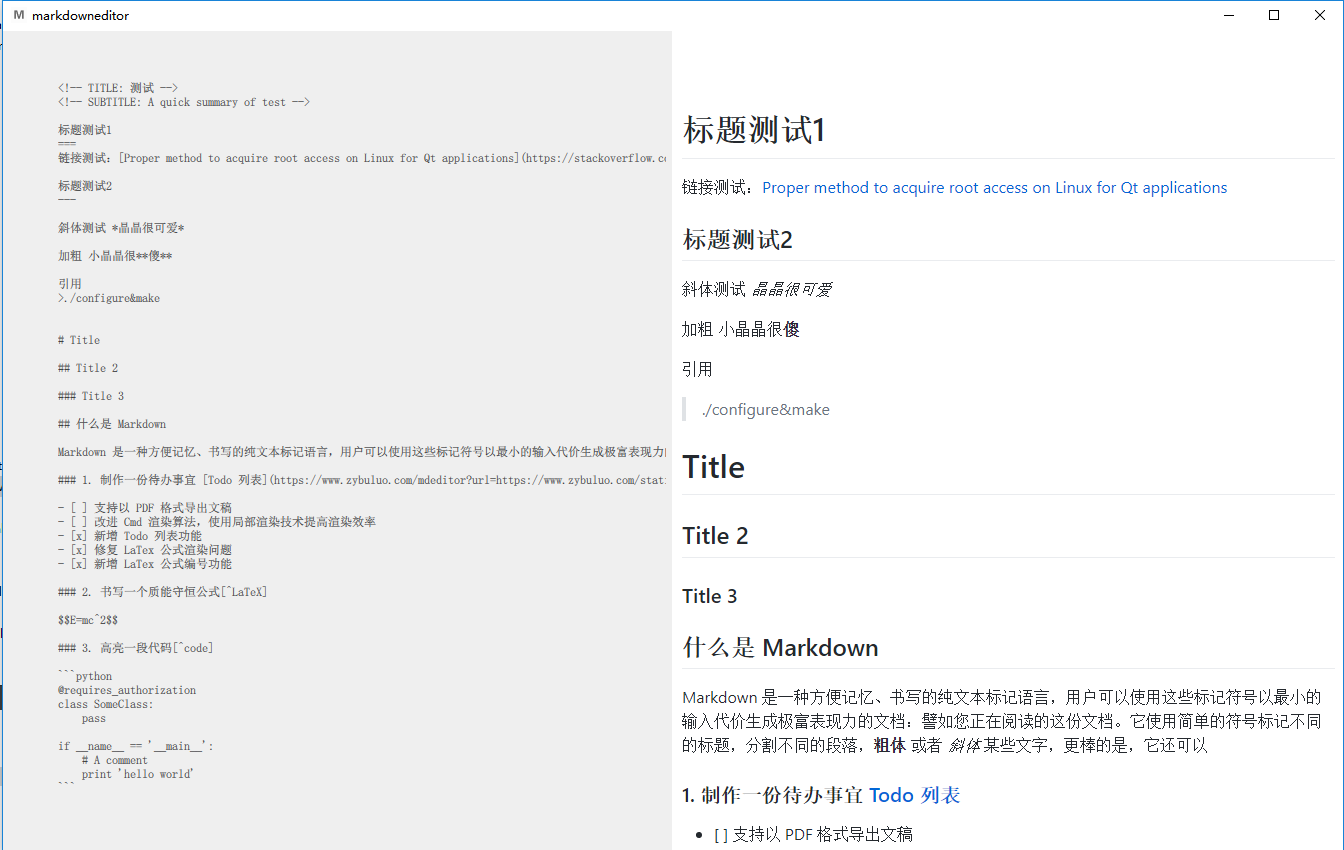
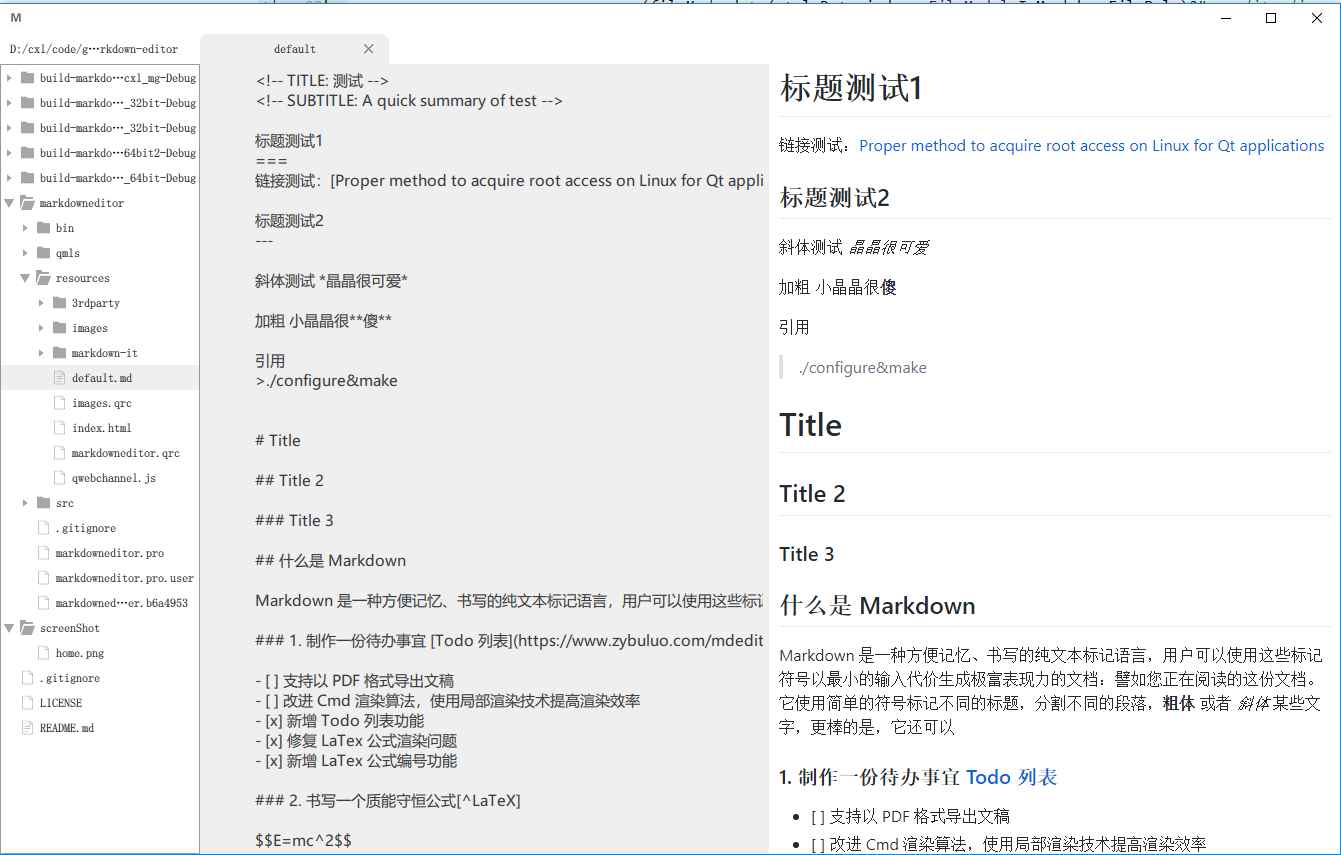
update file treeview

diff --git a/markdowneditor/qmls/custom/SubTree.qml b/markdowneditor/qmls/custom/SubTree.qml
@@ -2,6 +2,7 @@ import QtQuick 2.4
 import QtQuick.Controls 1.4
 import QtQml.Models 2.2
 import QtQuick.Dialogs 1.0
+import QtQuick.Controls.Styles 1.4
 
 import cxl.normal 1.0
 
@@ -71,10 +72,54 @@ Item {
             role: "fileName"
         }
 
+        style: TreeViewStyle {
+            branchDelegate: Image {
+                width: 14
+                height: width
+                source:styleData.isExpanded ? "qrc:/item/images/svg/triangle_down.svg" : "qrc:/item/images/svg/triangle_right.svg"
+            }
+
+            itemDelegate: Item {
+                Image {
+                    id: doc_type_image
+                    anchors.left: parent.left
+                    anchors.leftMargin: 3
+                    anchors.verticalCenter: parent.verticalCenter
+                    width: 15
+                    height: width
+                    source: styleData.hasChildren?
+                                (styleData.isExpanded?"qrc:/item/images/svg/dir_open.svg":"qrc:/item/images/svg/dir.svg"):
+                                (fileMode.data(styleData.index, FileModel.IsMarkdownFileRole)?"qrc:/item/images/svg/doc.svg":
+                                                                                               "qrc:/item/images/svg/doc_null.svg")
+                }
+
+                Text {
+                    anchors.left: doc_type_image.right
+                    anchors.leftMargin: 5
+                    anchors.verticalCenter: parent.verticalCenter
+                    anchors.right: parent.right
+                    elide: Text.ElideMiddle
+                    text: styleData.value
+                }
+            }
+
+            rowDelegate:Rectangle{
+                height: 25
+                color: styleData.selected?"#efefef":"#ffffff"
+            }
+        }
+
         onDoubleClicked: {
             if(!fileMode.data(index, FileModel.IsDirRole)){
                 selectTitle = fileMode.data(index, FileModel.BaseNameStringRole)
                 pathSelected(fileMode.data(index, FileModel.UrlStringRole))
+            }else{
+                if(view.isExpanded(index)){
+                    view.collapse(index)
+                }else{
+                    view.expand(index)
+                }
+
             }
         }
     }

diff --git a/markdowneditor/src/filemodel.h b/markdowneditor/src/filemodel.h
@@ -30,7 +30,8 @@ public:
         UrlStringRole = Qt::UserRole + 7,
         DirStringRole,
         BaseNameStringRole,
-        IsDirRole
+        IsDirRole,
+        IsMarkdownFileRole
     };
 
     Q_ENUM(Roles)
@@ -48,6 +49,7 @@ public:
          QHash<int, QByteArray> result = QFileSystemModel::roleNames();
          result.insert(SizeRole, QByteArrayLiteral("size"));
          result.insert(LastModifiedRole, QByteArrayLiteral("lastModified"));
+         result.insert(IsMarkdownFileRole, QByteArrayLiteral("isMarkdownFile"));
          return result;
     }
 

diff --git a/markdowneditor/src/filemodel.cpp b/markdowneditor/src/filemodel.cpp
@@ -65,6 +65,8 @@ QVariant FileModel::data(const QModelIndex &index, int role) const
         }
         case IsDirRole:
             return QVariant(fileInfo(index).isDir());
+        case IsMarkdownFileRole:
+            return QVariant(fileInfo(index).suffix() == "md");
         default:
             break;
         }
